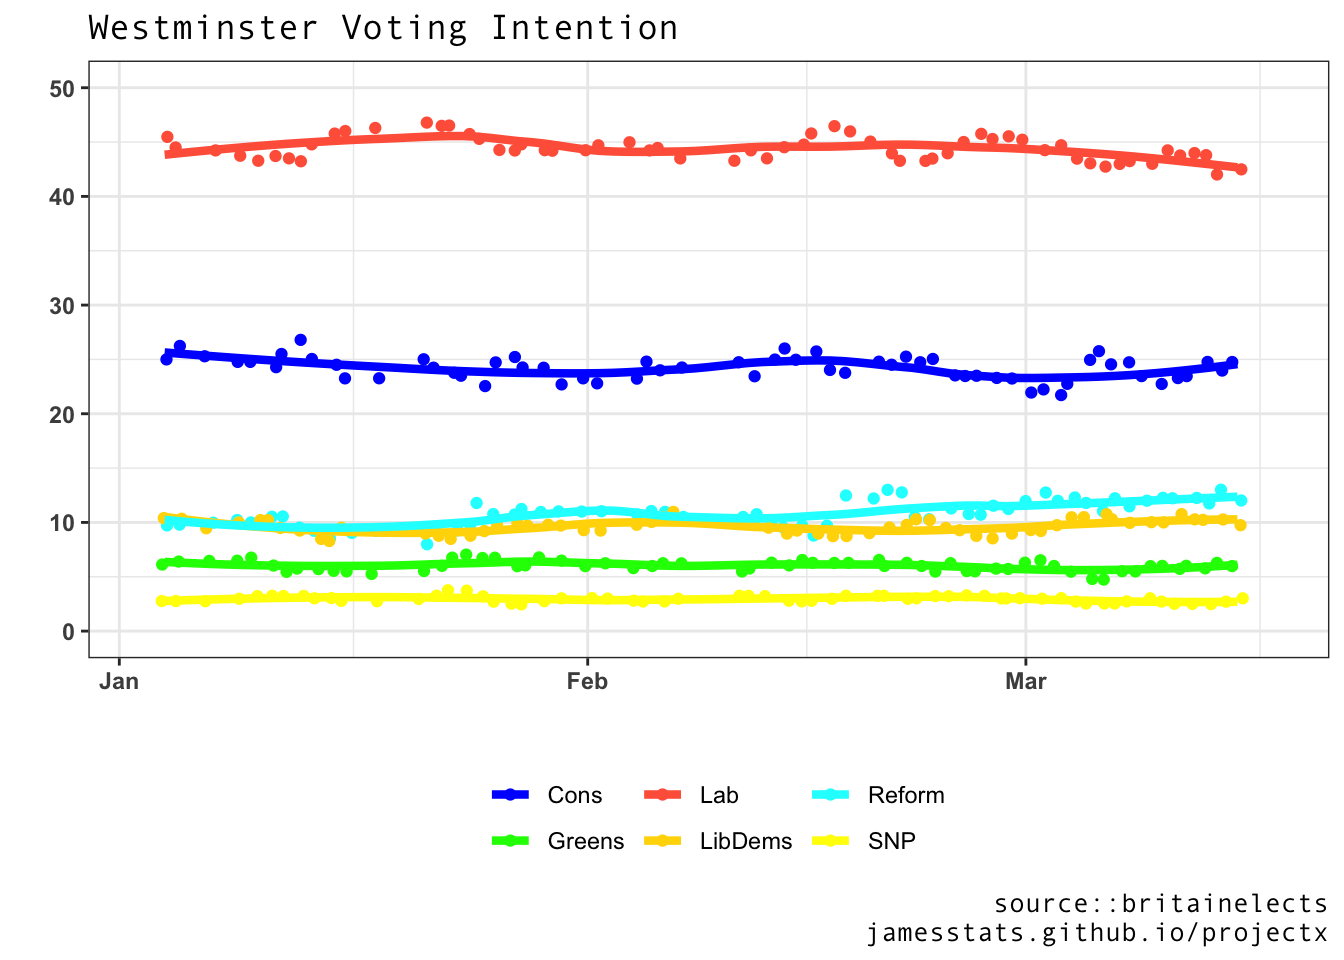
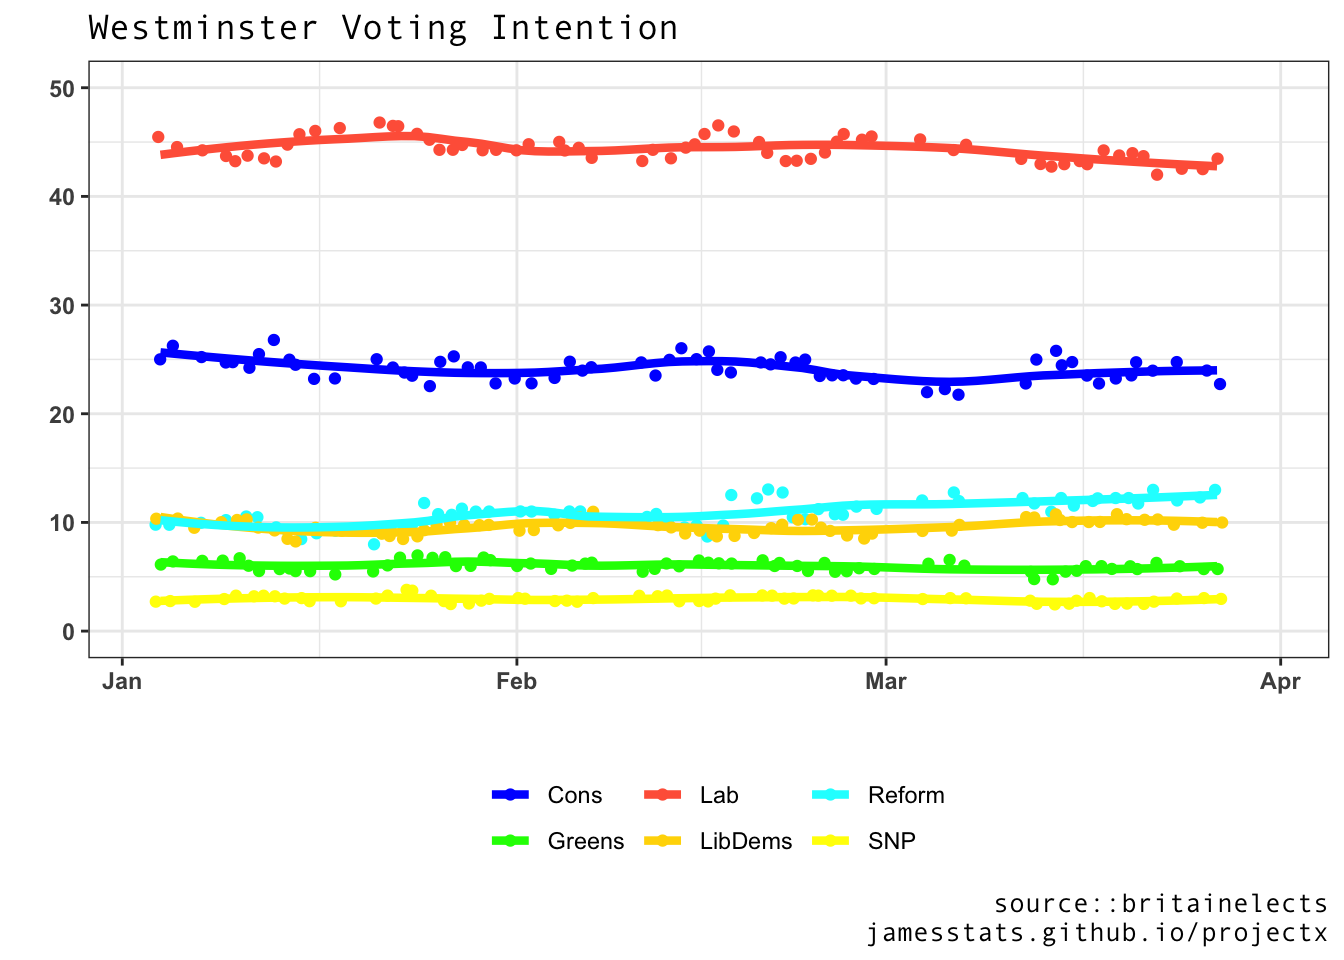
Westmister update

diff --git a/docs/britain.html b/docs/britain.html
@@ -216,13 +216,13 @@ ul.task-list li input[type="checkbox"] {
 </thead>
 <tbody>
 <tr class="odd">
-<td>Mar 15.2024</td>
-<td>24.8%</td>
-<td>42.5%</td>
-<td style="text-align: left;">9.8%</td>
+<td>Mar 27.2024</td>
+<td>22.8%</td>
+<td><strong><em>42.5</em></strong>%</td>
+<td style="text-align: left;">10%</td>
 <td>3%</td>
-<td>6%</td>
-<td>12%</td>
+<td>5.8%</td>
+<td>13%</td>
 </tr>
 <tr class="even">
 <td>Feb 28.2024</td>
